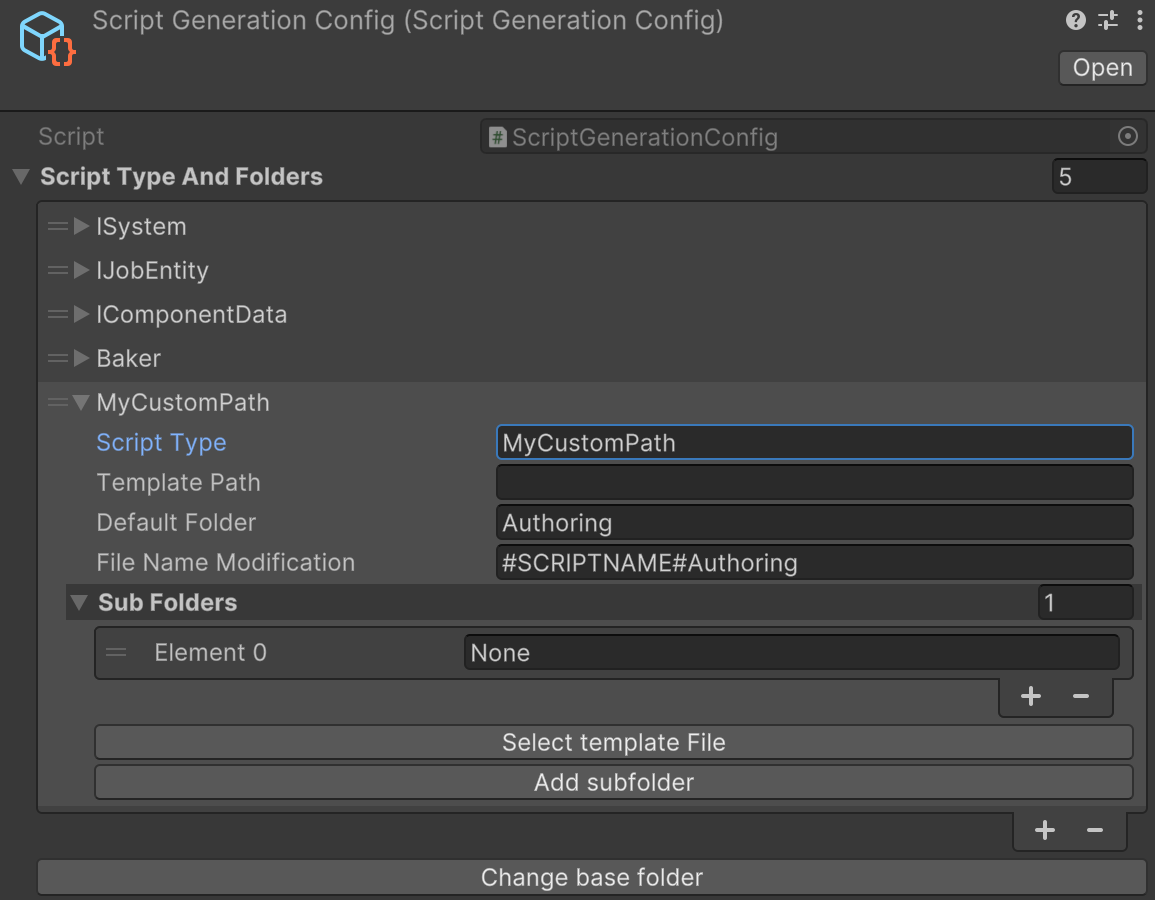
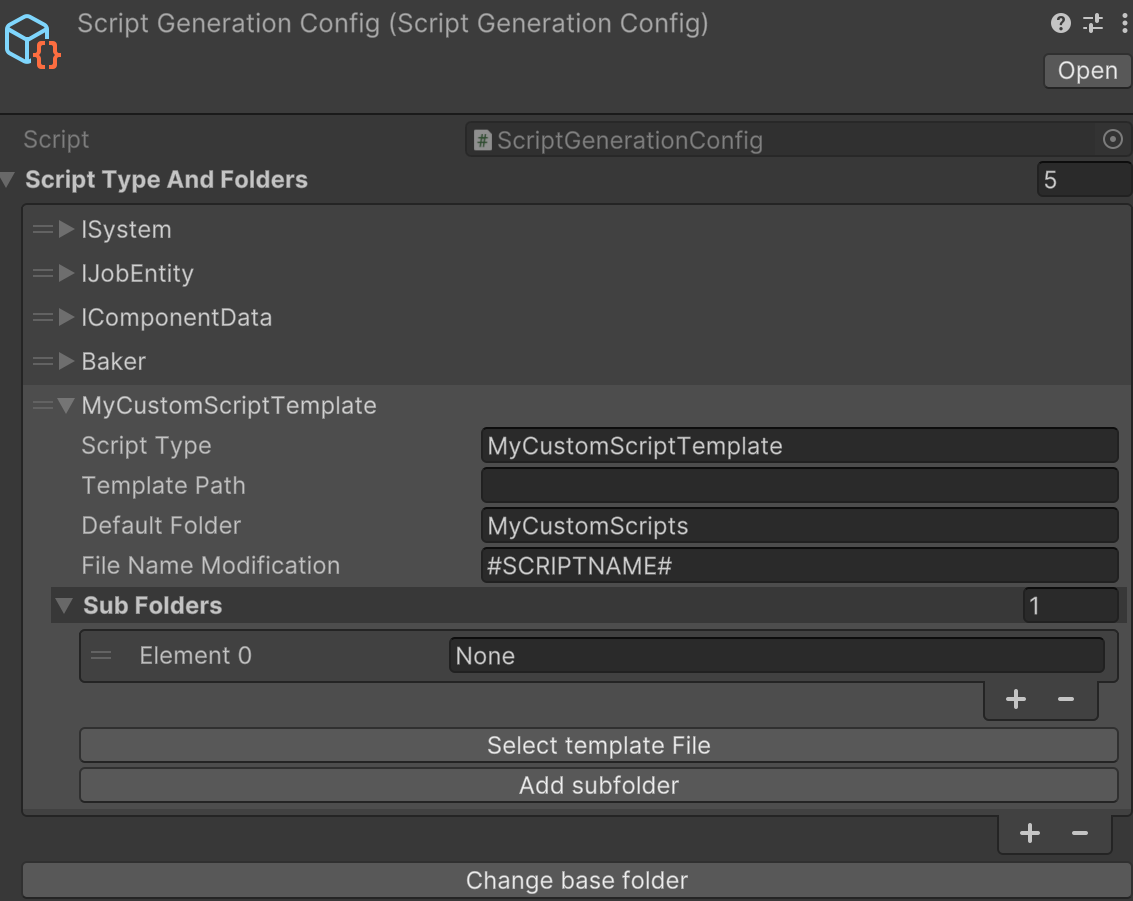
Update README.md
Added info about making your own template with pictures

diff --git a/README.md b/README.md
@@ -28,7 +28,21 @@ This will output an empty script in the folder "Assets/Scripts/Systems" by defau
 6. Click <b>Create script</b> to create the script.
 7. A dialog will ask if you want to open the file.
 
-#### Settings
-You can edit the settings in the config file you created.
+#### Adding your own templates
+1. Navigate to and select your ScriptGenerationConfig SO.
 
-More instructions coming soon.
+![Script Generator Config:](./Images/Step3.png)
+
+3. Click the + button to add a new Script Type
+4. <b>Script type</b> is shown in the editor window as a selectable type.
+5. <b>TemplatePath</b> is the path to the template, assign by using button below.
+6. <b>Default folder</b> is where the scripts will be created.
+7. <b>File Name Modification</b> can be used to add prefix or sufix to the files that are created. mostly left as _#SCRIPTNAME#
+
+#### Template File structure
+_#SCRIPTNAME# will be replaced by the scriptname you enter when creating a new script.
+
+![Script Template:](./Images/Step4.png)
+
+#### TODO
+Add Namespace support
